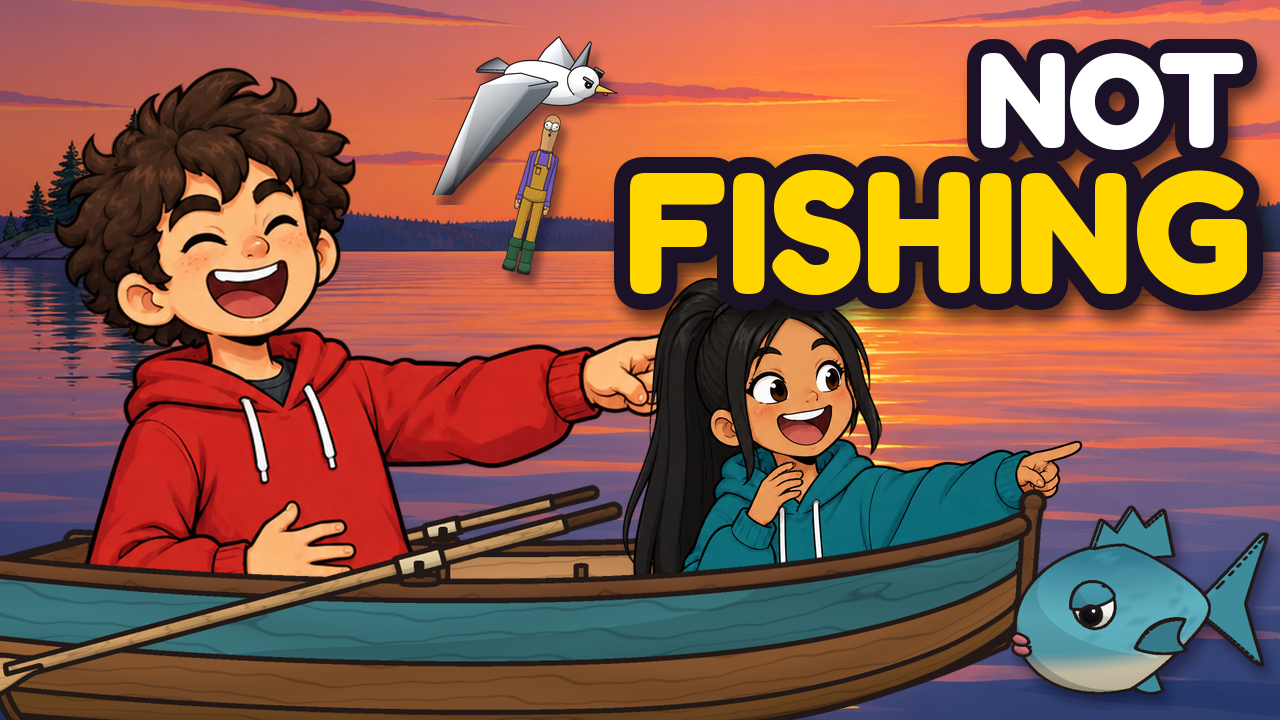
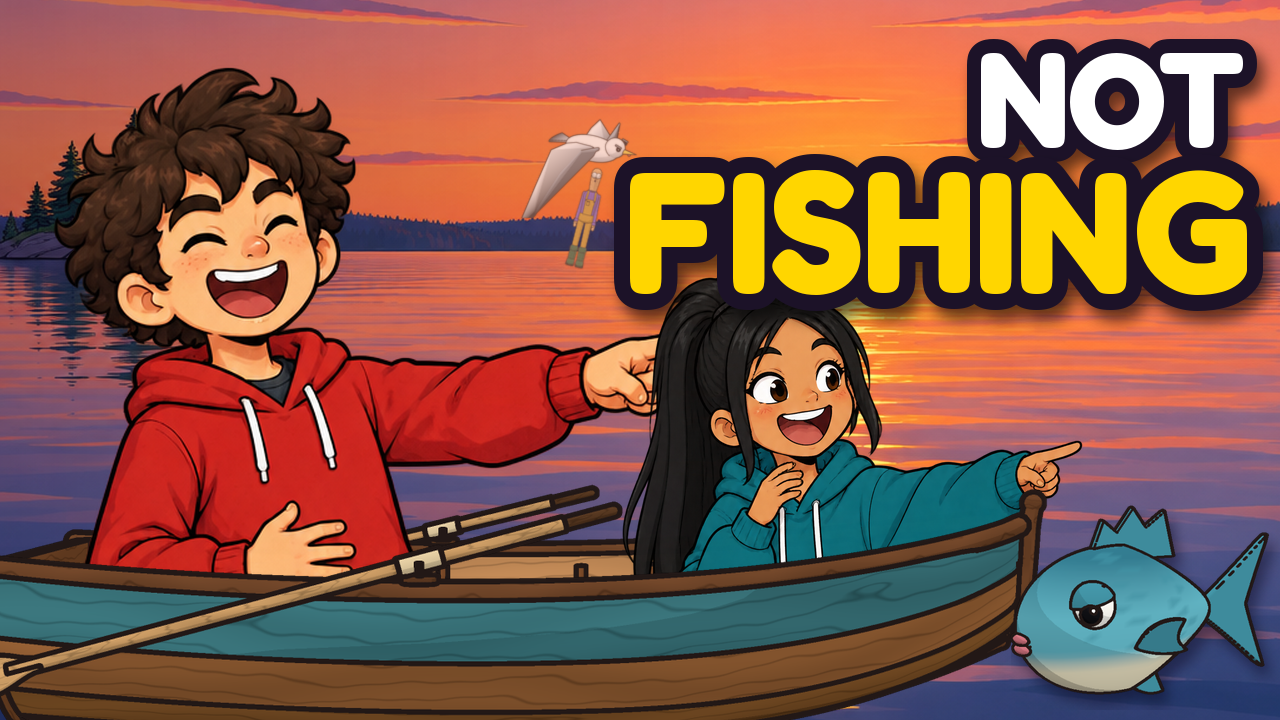
EP003 thumbnail C: gull + Max far away (smaller, near the horizon, atmospheric haze)
Claude-Session: https://claude.ai/code/session_013Z5PXa5Rnwzzq1ezg66xG5

Changed region(s): [[0.3438, 0.0611, 0.5, 0.3972]]

diff --git a/secondquest/docs/publish/EP003/thumbnails/make_thumbs.py b/secondquest/docs/publish/EP003/thumbnails/make_thumbs.py
@@ -95,11 +95,17 @@ def compose(variant):
     fs = scaled(fish, width=270)
     paste(c, fs, 1005, 500, shadow=6)
     if variant == 'C':                                       # a gull carries Max off into the distance (Producer idea, 2026-10-17)
-        gull = scaled(img(P3 / 'seagull_34.png'), width=190)
-        mx = scaled(img(P3 / 'max_front_shock.png'), height=165).rotate(-14, resample=Image.BICUBIC, expand=True)
-        gx, gy = 430, 34                                     # high in the sky between Quest and the title, far away
-        paste(c, mx, gx + 66, gy + 74, shadow=4)             # dangling under the gull (its feet hold his collar)
-        paste(c, gull, gx, gy, shadow=4)
+        # far away: small, near the horizon over the far shore, with atmospheric haze (sky-tinted, softer, lighter)
+        gull = scaled(img(P3 / 'seagull_34.png'), width=118)
+        mx = scaled(img(P3 / 'max_front_shock.png'), height=103).rotate(-14, resample=Image.BICUBIC, expand=True)
+        lay = Image.new('RGBA', (W, H), (0, 0, 0, 0))
+        gx, gy = 520, 118
+        paste(lay, mx, gx + 41, gy + 46)                     # head tucked under the gull's body: carried by the collar
+        paste(lay, gull, gx, gy)
+        a = lay.split()[3]
+        rgb = Image.blend(lay.convert('RGB'), Image.new('RGB', (W, H), (236, 150, 120)), .38)   # haze toward the dusk sky
+        lay = Image.merge('RGBA', (*rgb.split(), a)).filter(ImageFilter.GaussianBlur(.6))
+        c.alpha_composite(lay)
     # words
     if variant in 'AC':
         outlined(c, 'NOT', (1245, 14), 136, (255, 255, 255), anchor='ra')
